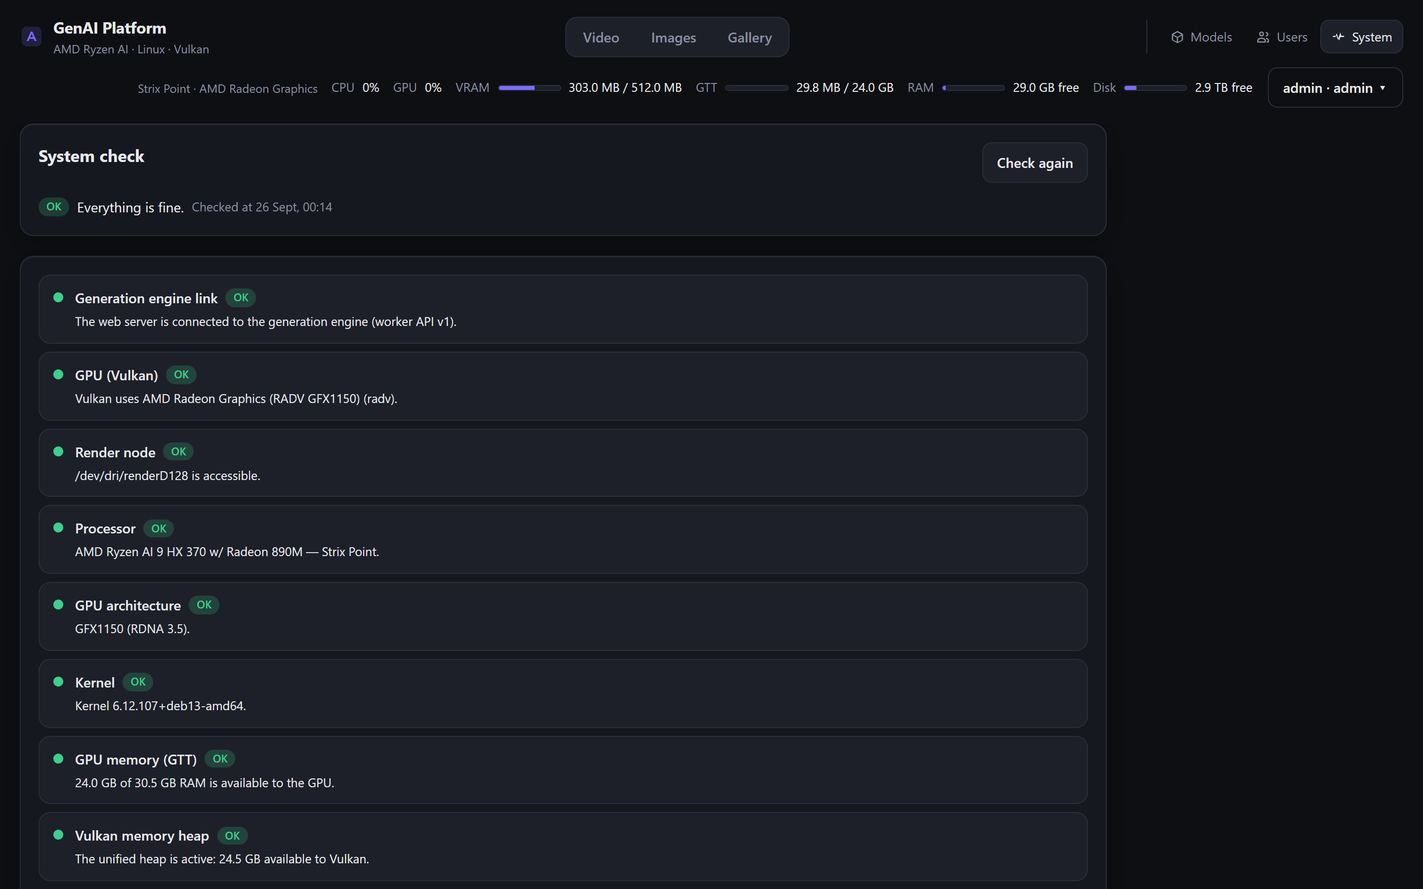
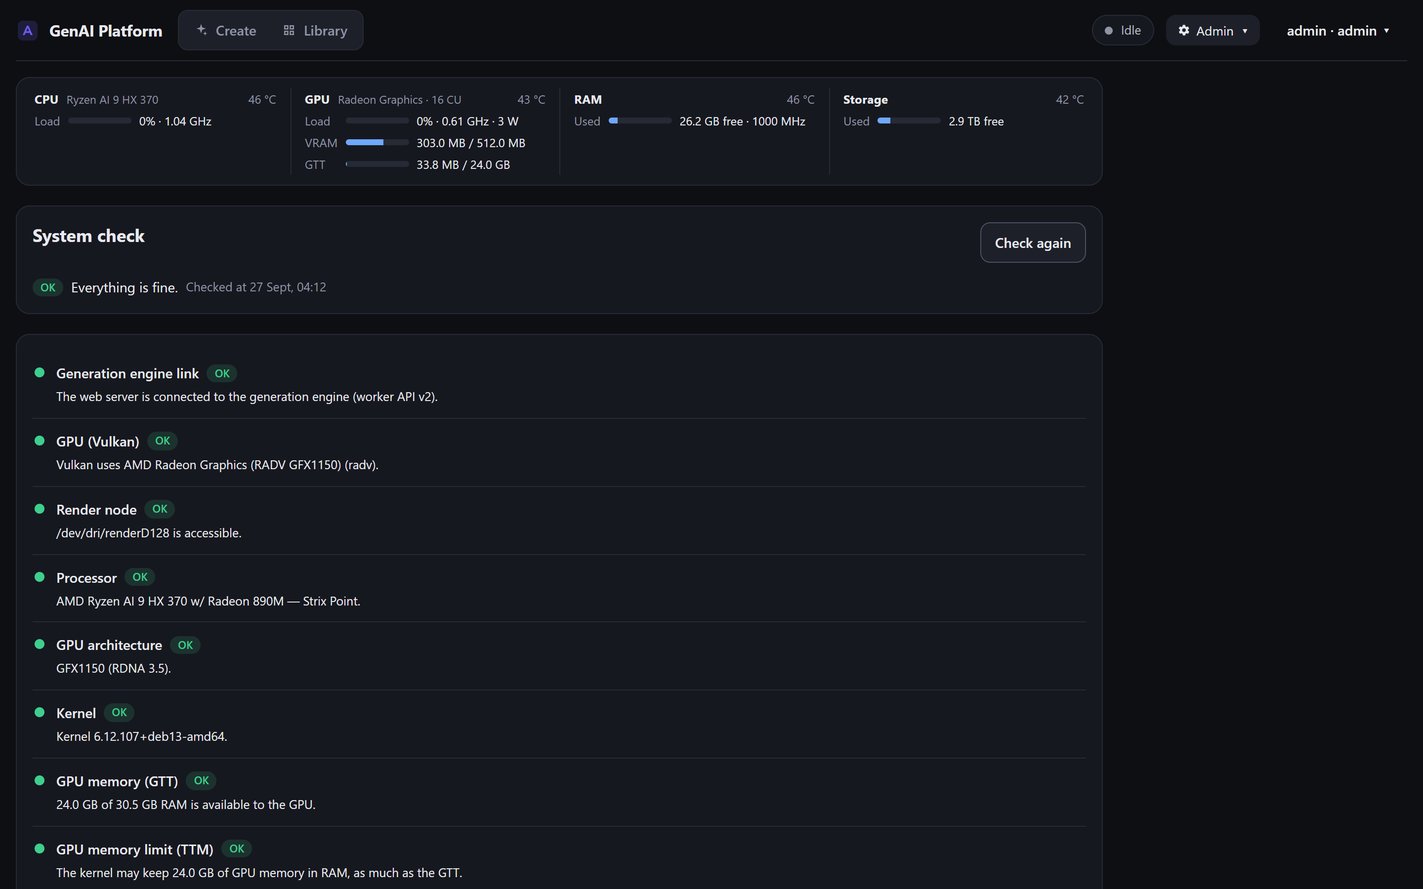
13" and phone layouts, new screenshots and description
- 13" laptops (1280-1440 x 800-900): a 380 px form column, denser cards,
  task tabs and mode cards; shorter previews on low screens.
- Phones: one header row (logo, status, admin, user) with the sections
  below, results two per row, the Generate bar fixed at the bottom with
  room for it, full-screen viewer, two-column model cards.
- Time estimates from multi-pass history: the stage times are of the
  last pass, so the run is measured per pass (AnimateLCM showed ~11 min
  instead of ~2.5 min after an 8 s clip).
- README rewritten for the task-based UI, the new models, the library,
  the prompt assistant and the themes; new screenshots at 13" (dark and
  light) and on a phone, with real results; docs: a Web UI section, the
  as-input endpoint, current control names.

diff --git a/web/src/styles.css b/web/src/styles.css
@@ -626,3 +626,59 @@ input[type="range"].extra { accent-color: var(--warn); }
 .photo-bar { display: flex; gap: 8px; justify-content: flex-end; }
 .drawer .hero { grid-template-columns: 1fr; }
 .drawer .hero-media:empty { display: none; }
+
+/* ---------- 13" laptops (1280–1440 px wide, 800–900 px tall): denser ---------- */
+@media (max-width: 1480px) and (min-width: 981px) {
+  .app { padding: 0 16px 32px; }
+  .top { padding: 10px 0; margin-bottom: 16px; }
+  .layout { grid-template-columns: 380px 1fr; gap: 16px; }
+  .col-main { gap: 16px; }
+  .card { padding: 16px; }
+  .form { gap: 14px; }
+  .form-foot { margin: 0 -16px -16px; padding: 10px 16px; }
+  .task-tab { padding: 6px 4px; }
+  .task-name { font-size: 11.5px; }
+  .mode-card { padding: 8px 10px; }
+  .mode-name { font-size: 12.5px; }
+  .hero-media img, .hero-media video { max-height: 56vh; }
+  .grid-img { grid-template-columns: repeat(auto-fill, minmax(160px, 1fr)); }
+  .grid { grid-template-columns: repeat(auto-fill, minmax(200px, 1fr)); gap: 14px; }
+}
+@media (max-height: 820px) and (min-width: 981px) {
+  .prompt-box textarea { min-height: 96px; }
+  .hero-media img, .hero-media video { max-height: 50vh; }
+}
+
+/* ---------- phones ---------- */
+@media (max-width: 640px) {
+  .app { padding: 0 12px calc(96px + env(safe-area-inset-bottom)); }
+  /* one header row: logo, status, admin and user; the sections below it */
+  .top { gap: 8px; row-gap: 8px; padding: 8px 0; margin-bottom: 12px; }
+  .brand-name { display: none; }
+  .top-right { margin-left: auto; gap: 6px; flex-wrap: nowrap; min-width: 0; }
+  .status-pill { padding: 4px 10px; min-width: 0; overflow: hidden; }
+  .status-pill > span:nth-child(2) { overflow: hidden; text-overflow: ellipsis; }
+  .status-pill .sp-queue { display: none; }
+  .usermenu > .btn { padding: 6px 8px; max-width: 120px; overflow: hidden; text-overflow: ellipsis; }
+  .nav { order: 3; width: 100%; }
+  .nav .nav-tab { flex: 1; justify-content: center; }
+  .card { padding: 14px; border-radius: var(--r-md); }
+  .form-foot { padding: 10px 14px calc(10px + env(safe-area-inset-bottom)); }
+  .submit-row .btn.primary { padding: 11px 18px; }
+  .task-tab { padding: 6px 2px; }
+  .task-name { font-size: 11px; }
+  .modes { grid-template-columns: 1fr 1fr; }
+  .chip { padding: 7px 12px; }
+  /* results two per row instead of one huge tile each */
+  .grid, .grid-img, .grid-all { grid-template-columns: repeat(2, minmax(0, 1fr)); gap: 10px; }
+  .tile-prompt { font-size: 12px; -webkit-line-clamp: 2; }
+  .tile-meta .small { font-size: 11px; }
+  .tile-actions .btn-icon { width: 30px; height: 30px; }
+  .hero { gap: 12px; }
+  .hero-actions .btn { flex: 1 1 auto; }
+  .gal-head h3 { font-size: 15px; }
+  .modal-bg { padding: 0; place-items: stretch; }
+  .modal { border-radius: 0; max-height: 100vh; height: 100%; }
+  .menu { right: -4px; }
+  .sysbar { padding: 8px 0; }
+}

diff --git a/web/src/util.js b/web/src/util.js
@@ -105,9 +105,12 @@ export function estimate(jobs, params, preset, gpuPower) {
     .sort((a, b) => b.finishedAt - a.finishedAt)[0];
   const samplingSec = job && stageDuration(job, 'sampling');
   if (samplingSec) {
+    // Progress is kept per pass: the stage times are of the last pass, so a multi-pass video is
+    // measured as one pass (its share of the total time) and scaled from there
+    const segs = job.params.segments || 1;
     const decodeSec = stageDuration(job, 'decoding') || 0;
-    const otherSec = Math.max(0, (job.durationSec || 0) - samplingSec - decodeSec);
-    return { sec: scaleRun({ ...job.params, samplingSec, decodeSec, otherSec }, params), source: 'history' };
+    const otherSec = Math.max(0, (job.durationSec || 0) / segs - samplingSec - decodeSec);
+    return { sec: scaleRun({ ...job.params, segments: 1, samplingSec, decodeSec, otherSec }, params), source: 'history' };
   }
   if (preset?.reference && gpuPower?.score) {
     return { sec: scaleRun(preset.reference, params, 1 / gpuPower.score), source: 'reference', gpu: gpuPower.name };

diff --git a/README.md b/README.md
@@ -1,38 +1,50 @@
 # AMD AI Linux GenAI Platform
 
-A self-hosted platform for local generative content (video, images, and more to come) on **AMD Ryzen AI** mini PCs and laptops running **Linux**. Everything runs on the integrated Radeon GPU through **Vulkan (Mesa RADV)** — no ROCm required. It ships a web UI with sign-in, a job queue, live progress, a gallery, and a model manager that downloads and removes models by itself.
+A self-hosted platform for local generative images and video on **AMD Ryzen AI** mini PCs and laptops running **Linux**. Everything runs on the integrated Radeon GPU through **Vulkan (Mesa RADV)** — no ROCm required. It ships a web UI with sign-in, task-based creation (create, rework, change a part, upscale, animate, put a person into a video, change a video), a job queue with live progress, a library of results, an optional AI prompt assistant and a model manager that downloads and removes models by itself.
 
-The UI is available in English (default), Ukrainian and Russian, in a dark (default) or light theme, or following the system.
+The UI is in English (default), Ukrainian and Russian, in a dark (default) or light theme or following the system, and works on laptops and phones.
 
 ## Features
 
-- **Video:** text-to-video and image-to-video. AnimateLCM (the fastest), AnimateDiff v3 (more detailed), Wan 2.2 5B (coherent motion, for Strix Halo). Output FPS of 24/30/50/60/120 via motion interpolation. Every model pass stays within what the model was trained on (AnimateDiff 16 frames, Wan 121); **longer videos** are built from several chained passes (AnimateDiff up to 8 s, Wan 2.2 up to 10 s). Going beyond the trained length or the tested sizes is possible, with a warning. **Extra quality** uses twice the steps of High.
-- **Images:** photorealistic images with Realistic Vision 6 (SD 1.5), RealVisXL V5 (SDXL at 1024 px, also as a 5–8-step Lightning variant) and Z-Image Turbo (a modern 6B model in 8 steps that follows natural-language descriptions and renders text); several variants at once. The form starts with the task: for images **Create**, **Rework a photo**, **Change a part** (paint over it with a brush) and **Upscale** (Real-ESRGAN ×4); for video **Create**, **Animate a photo**, **Put a person in** (a person or object from a photo in a new video) and **Change a video** (the motion of your video with a new look; both on Wan 2.1 VACE, experimental).
-- **Queue and progress:** jobs run strictly one at a time (there is one GPU). Stages, steps, speed, time left, a latent preview and a live log are shown.
-- **Gallery:** everything generated, videos and images together, with filters by kind, status and author and a search by prompt. A failed or cancelled job can be **restarted** as it was (same parameters and seed); "repeat" fills the form with a job's settings.
-- **Time estimates:** before the first run of a mode the form scales a real reference measurement to this GPU (compute units × clock); afterwards it uses this machine's own history.
+**Creating**
+
+- **Task first.** The form starts with what you want to do, and shows only the models that can do it:
+  - images: **Create**, **Rework a photo** ("how much to change" slider, the size follows the photo), **Change a part** (paint over it with a brush; the rest of the photo stays pixel-exact), **Upscale** (Real-ESRGAN ×4);
+  - video: **Create**, **Animate a photo** (the photo is the first frame), **Put a person in** (a person or object from a photo in a new video) and **Change a video** (the motion of your video with a new look, as contours or recoloring; both on Wan 2.1 VACE, experimental).
+- **Image models:** Realistic Vision 6 (SD 1.5, ~40 s), RealVisXL V5 (SDXL at 1024 px, 2 min 40 s; also a 5–8-step Lightning variant, 48 s) and Z-Image Turbo (a 6B model in 8 steps that follows natural-language descriptions and renders text, 2 min 50 s). Times are for one 1024×1024 image on a Radeon 890M.
+- **Video models:** AnimateLCM (the fastest), AnimateDiff v3 (more detailed), Wan 2.2 5B (coherent motion, for Strix Halo), Wan 2.1 VACE 1.3B. Every model pass stays within what the model was trained on (AnimateDiff 16 frames, Wan 121); **longer videos** are stitched from several passes (AnimateDiff up to 7.6 s, Wan 2.2 up to 10 s), with exactly the requested length. Output at 24–120 fps via motion interpolation.
+- **Models as cards** with the time per result on this machine, and badges for experimental modes, downloads needed and memory limits. Before a mode's first run the time comes from a real reference measurement scaled to this GPU (compute units × clock, read from the driver); afterwards from this machine's own history.
+- **Prompt assistant (optional):** "✦ Improve with AI" in the prompt box. A language model on an [Ollama](https://ollama.com) server turns an idea in any language into a prompt written for the selected model: tags within CLIP's 75 tokens plus the model's quality tags for SD 1.5 / SDXL, flowing sentences with motion and camera for Wan and Z-Image. It knows the task (for Change a part it describes only the painted area). See [docs/models.md](docs/models.md#prompt-assistant).
+- **Plain settings:** shape and size (tested sizes first), length or variations, quality; "More settings" holds smoothness, what to avoid and the variation number, and an Expert group the engine's own parameters. The time estimate and the Generate button stay in view.
+
+**Results**
+
+- **The latest result large, with what to do next:** download, upscale ×4, change a part, rework, animate it into a video, or edit and run again. The same actions are in the viewer.
+- **Library:** everything generated, filters by kind, status and author, search by prompt. A failed or cancelled job can be run again as it was.
+- **Queue and progress:** one job at a time (one GPU). A status pill in the header shows the GPU (idle, or progress and time left, the queue, overheating) and opens the queue; the running job shows a rough live preview, one plain progress line, and its stages and engine log under Details.
+
+**Running it**
+
 - **Updates without interruptions:** the UI/API (`web`) and the GPU engine (`worker`) are separate containers; `./scripts/update.sh` restarts the web part at once and the engine only after the current job.
-- **Generation telemetry (optional):** a JSON document per job with the system snapshot (OS, kernel, runtime, CPU, GPU, drivers, clocks), all job parameters and per-phase hardware metrics (utilization, memory, swap, clocks, power, temperatures), with a size limit. Stays on the server. See [docs/telemetry.md](docs/telemetry.md).
-- **Models:** a catalog with sources, sizes and licenses. One-click downloads with resume, conversion into the stable-diffusion.cpp format, deletion. A mode without its models offers to download them.
-- **First-run setup:** while nothing is usable yet, the administrator gets a checklist of model packs with sizes and explanations; the required base is locked, recommendations depend on the hardware.
-- **System check:** the platform checks itself — the link to the engine, GPU via Vulkan, render node access, CPU family and GPU architecture, kernel, GTT size, the unified Vulkan heap, memory for heavy modes, swap, disk, engine, NPU — and shows concrete advice with copyable commands. Critical problems show a banner for administrators and are logged at startup.
+- **Models:** a catalog with sources, sizes and licenses. One-click downloads with resume, conversion into the stable-diffusion.cpp format, deletion. A mode without its models offers to download them; on first start the administrator picks model packs from a checklist.
+- **System check and hardware:** the platform checks itself (engine link, GPU via Vulkan, render node, CPU and GPU generation, kernel, GTT and TTM, the unified Vulkan heap, memory, swap, disk, NPU) and gives concrete advice with copyable commands. The System page shows CPU, GPU, memory and disk with load, clocks, temperatures and the firmware's throttling state.
+- **Generation telemetry (optional):** a JSON document per job with the system snapshot, all parameters and per-phase hardware metrics (utilization, memory, swap, clocks, power, temperatures, throttle counters), with a size limit and an anonymized download. Stays on the server. See [docs/telemetry.md](docs/telemetry.md).
 - **Users:** the first administrator is created on first start, then it is sign-in only (scrypt passwords). The administrator adds users; admin/user roles, everyone owns their jobs.
-- **Prompt assistant (optional):** a "To prompt" button next to the prompt. A language model on an [Ollama](https://ollama.com) server (dolphin-llama3 recommended) turns a short idea in any language into a detailed English prompt written for the selected mode: comma-separated tags within CLIP's 75 tokens for Stable Diffusion 1.5, flowing sentences with motion and camera for Wan. Connected in Settings; the button is active only while the model is available. See [docs/models.md](docs/models.md#prompt-assistant).
-- **Start templates:** on open, the form is filled with one of 10 hidden templates (car, animal, person, architecture, nature…) with settings tuned for maximum quality.
 - **Extensible:** modes and models are described in JSON (`catalog/`); your own are added without a rebuild via `data/state/*.local.json`.
 
 ## Screenshots
 
-Taken on the reference machine (Radeon 890M) at the size of a 13" laptop screen (1440×900, 2× density). All results were generated by the platform itself: Realistic Vision 6 at 768×1024 / 1024×768 with Extra quality (80 steps, 4–6 min per image) and Wan 2.2 5B at 832×480, High quality (4 h 20 min per 2 s clip). See [docs/benchmarks.md](docs/benchmarks.md).
+Taken on the reference machine (Radeon 890M) at the size of a 13" laptop screen (1440×900, 2× density) and a phone (390×844, 3×). All results were generated by the platform itself (RealVisXL V5, Z-Image Turbo, AnimateLCM, AnimateDiff v3, Wan 2.1 VACE, Real-ESRGAN); see [docs/benchmarks.md](docs/benchmarks.md).
 
 > **Note:** the screenshots show the interface at the time of writing (September 2026). The platform is in active development, so the current UI may differ considerably: layout, sections, controls and texts change between versions.
 
 | | |
 |---|---|
-| [![Gallery](docs/screenshots/gallery.png)](docs/screenshots/gallery.png) **Gallery:** videos and images together, filters, search | [![Images](docs/screenshots/image-studio.png)](docs/screenshots/image-studio.png) **Images:** the form and the latest results |
-| [![Video](docs/screenshots/video-studio.png)](docs/screenshots/video-studio.png) **Video:** a Wan 2.2 job with stages, speed, time left, latent preview and the queue | [![Viewer](docs/screenshots/viewer-image.png)](docs/screenshots/viewer-image.png) **Viewer:** the result with its prompt and parameters |
-| [![Video viewer](docs/screenshots/viewer-video.png)](docs/screenshots/viewer-video.png) **Video viewer:** a Wan 2.2 clip | [![System check](docs/screenshots/system.png)](docs/screenshots/system.png) **System check:** GPU, GTT, the unified Vulkan heap, engine |
-| [![Models](docs/screenshots/models.png)](docs/screenshots/models.png) **Models:** catalog, sizes, licenses, what uses what | |
+| [![Create an image](docs/screenshots/create-image.png)](docs/screenshots/create-image.png) **Create:** task, prompt with the AI assistant, models with the time per result; the latest result with what to do next | [![Light theme](docs/screenshots/create-image-light.png)](docs/screenshots/create-image-light.png) **Light theme** |
+| [![Change a part](docs/screenshots/change-part.png)](docs/screenshots/change-part.png) **Change a part:** paint over the hat, describe what goes there | [![Video](docs/screenshots/create-video.png)](docs/screenshots/create-video.png) **Video:** a clip changed with Wan 2.1 VACE (the motion of an uploaded video, a new look) |
+| [![Library](docs/screenshots/library.png)](docs/screenshots/library.png) **Library:** everything generated, filters, search | [![Viewer](docs/screenshots/viewer.png)](docs/screenshots/viewer.png) **Viewer:** the result and its follow-up actions |
+| [![System](docs/screenshots/system.png)](docs/screenshots/system.png) **System:** hardware at a glance and the self-check | [![Models](docs/screenshots/models.png)](docs/screenshots/models.png) **Models:** catalog, sizes, licenses, what uses what |
+| [![Settings](docs/screenshots/settings.png)](docs/screenshots/settings.png) **Settings:** the prompt assistant (Ollama) and telemetry | [![Phone](docs/screenshots/phone-create.png)](docs/screenshots/phone-create.png) [![Phone library](docs/screenshots/phone-library.png)](docs/screenshots/phone-library.png) **On a phone** |
 
 ## Hardware
 

diff --git a/docs/architecture.md b/docs/architecture.md
@@ -33,7 +33,7 @@ A new content type (upscaling, audio, LLM…) is added by:
 - a command-building and finalization branch in `worker/queue.js` (`buildArgs`, `finalize*`);
 - a section in the UI.
 
-The queue, models, users and gallery are shared.
+The queue, models, users and library are shared.
 
 ## Containers and updates
 
@@ -82,7 +82,7 @@ The images can be rebuilt and updated at will: none of this is stored in them. B
    - weight loading;
    - saved files.
 4. For extra-length videos, ffmpeg extracts the last frame of a segment, and the next segment is generated from it as image-to-video with the mode's `continueArgs`.
-5. Video: the MJPEG AVI(s) from `sd-cli` → an H.264 mp4 via ffmpeg (segments are concatenated without the duplicated seam frame). If the output FPS is above the native one, `minterpolate` synthesizes the frames. Images: the PNGs are renamed. A thumbnail is made for the gallery.
+5. Video: the MJPEG AVI(s) from `sd-cli` → an H.264 mp4 via ffmpeg (segments are concatenated without the duplicated seam frame). If the output FPS is above the native one, `minterpolate` synthesizes the frames. Images: the PNGs are renamed. A thumbnail is made for the library.
 6. If the worker is stopped during a generation (a power loss, a plain `docker compose up` over it), the current job is marked as failed and the rest of the queue continues. `update.sh` avoids this by draining first.
 
 ## API
@@ -109,10 +109,11 @@ Every route except sign-in requires a session. Mutating requests require the `X-
 | GET | `/api/models` | user | catalog, statuses, download progress, disk space |
 | POST | `/api/models/download` `{ids}` · `/api/models/:id/cancel` | admin | download / cancel |
 | DELETE | `/api/models/:id` | admin | delete (refused while the model is in use) |
+| POST | `/api/jobs/:id/as-input` | user | `{index}`: copies one image of a finished job into the uploads and returns its name, for a follow-up task |
 | POST | `/api/jobs/:id/upscale` | user | `{index}`: upscales one image of a finished job ×4 as a new job (at most 2048 px on the long side) |
 | GET/PUT | `/api/settings` | admin | platform settings (telemetry on/off and size limit; the prompt assistant's Ollama address, model, on/off) |
 | GET | `/api/settings/ollama?url=` | admin | the Ollama server's version and installed models, for choosing one in Settings |
-| GET | `/api/prompt/status` | user | whether the "To prompt" button can work (enabled, server reachable, model installed; checked at most every 30 s) |
+| GET | `/api/prompt/status` | user | whether the "Improve with AI" button can work (enabled, server reachable, model installed; checked at most every 30 s) |
 | POST | `/api/prompt/enhance` | user | `{presetId, prompt, width, height, duration, hasImage}` → `{prompt}`: the idea rewritten by the Ollama model for the mode |
 | GET/DELETE | `/api/telemetry` · `/api/telemetry/export` · `/api/telemetry/:name` | admin | list, download all as one JSON array, download one, delete all |
 | GET | `/files/{output,thumbs,previews,uploads}/…` | user | files (with Range support for video) |
@@ -137,7 +138,16 @@ Every route except sign-in requires a session. Mutating requests require the `X-
 | `engine`, `ffmpeg` | `sd-cli` or ffmpeg does not run (fail) |
 | `npu` | informational only |
 
-Results are cached for a minute (`GET /api/diagnostics?refresh=1` forces a re-run). `/api/state` carries a short `health` summary for the header badge and the admin banner; modes with `minGtt` show a warning in the form when GTT is smaller.
+Results are cached for a minute (`GET /api/diagnostics?refresh=1` forces a re-run). `/api/state` carries a short `health` summary for the dot on the Admin menu and the admin notice; modes with `minGtt` show a warning in the form when GTT is smaller.
+
+## Web UI
+
+React (Vite) without a component library; plain CSS in `web/src/styles.css`.
+
+- **Structure:** two sections, **Create** (images and video, switched inside the workspace) and **Library**; administration (Models, Users, System, Settings) under one Admin menu. The header carries a GPU status pill (idle, or the running job's progress and time left, the queue length, overheating) that opens the queue as a side panel. One notice slot shows the most important message (no connection, engine unavailable, a failed system check, an engine update pending).
+- **Create:** the form (task, inputs, prompt, model cards, format, More settings, a sticky footer with the time estimate and the Generate button) next to the running job or the latest result with follow-up actions, a one-line queue summary and recent results. Follow-ups copy the result into the uploads (`POST /api/jobs/:id/as-input`) and open the form with it.
+- **Themes:** design tokens as CSS custom properties; dark on `:root`, light under `[data-theme="light"]`. `web/src/theme.js` keeps the choice (dark, light, system) in `localStorage`; an inline script in `index.html` applies it before the first paint. Red is used only for failures, amber for optional extras.
+- **Sizes:** tuned for 13" laptops (1280–1440 × 800–900: a 380 px form column that scrolls on its own, denser cards) and phones (one column, a fixed Generate bar at the bottom, two results per row, the viewer full screen).
 
 ## Internationalization
 

diff --git a/docs/models.md b/docs/models.md
@@ -83,12 +83,12 @@ Both extra settings are red in the UI: they work, with caveats.
 
 The defaults follow the models' training so that the result matches the prompt; going beyond is allowed, with a warning in the form:
 
-- **Frames per model pass** (Advanced): empty means the trained length. Up to `maxFrames` is possible, but beyond the training length the motion module loses the subject. Measured on the reference machine: AnimateDiff v3 with 32-frame passes at 768×512 produced only a sand-and-water texture for "a young woman on a windy beach", while 16 frames at 512×512 gave exactly that scene.
+- **Length of one part** (More settings → Expert): empty means the trained length. Up to `maxFrames` is possible, but beyond the training length the motion module loses the subject. Measured on the reference machine: AnimateDiff v3 with 32-frame passes at 768×512 produced only a sand-and-water texture for "a young woman on a windy beach", while 16 frames at 512×512 gave exactly that scene.
 - **Resolution:** sizes the mode was tested at are marked ✓ (`recommendedResolutions`); other sizes show a warning that the result may not follow the prompt. AnimateDiff v3 was verified at 512×512 and 768×512 with 16-frame passes; an 8 s clip from four 2 s passes kept the same person and scene, with the contrast growing slightly from pass to pass.
 
 ## Prompt assistant
 
-The "To prompt" button next to the prompt sends the text to a language model on an [Ollama](https://ollama.com) server and replaces it with a prompt written for the selected mode; "Restore my text" brings the original back. The web container calls Ollama (`POST /api/chat` with a JSON schema, `keep_alive: 1m` so the model leaves GPU memory soon after), the worker is not involved.
+The "✦ Improve with AI" button in the prompt box sends the text to a language model on an [Ollama](https://ollama.com) server and replaces it with a prompt written for the selected mode; "Undo" brings the original back. The web container calls Ollama (`POST /api/chat` with a JSON schema, `keep_alive: 1m` so the model leaves GPU memory soon after), the worker is not involved.
 
 Set it up in **Settings → Prompt assistant**: the server address (`http://host.docker.internal:11434` is the Docker host, where Ollama usually runs; `docker-compose.yml` maps that name for the web container) and the model. Recommended: `dolphin-llama3` (8B), installed with `ollama pull dolphin-llama3`. On the reference machine it answers in 5–8 s and kept the meaning of every Russian test description (a lighthouse on a cliff at sunset, a cat on a windowsill in the rain, a girl in a red dress in an autumn alley). `dolphin-phi` (2.7B) answers in 2–4 s but turned the same descriptions into other scenes (no lighthouse, no rain, snow in autumn); it is usable with English descriptions. A fast alternative is `huihui_ai/qwen2.5-abliterate:3b` (Qwen 2.5 3B without refusals, 1.9 GB): 3–7 s, understood all the Russian descriptions, with simpler wording and an occasional untranslated word. The example exchange is marked as format only, since small models otherwise copy its objects (flags and snow turned up in unrelated prompts). The button is disabled while the assistant is off, the server is unreachable or the model is not installed.
 
